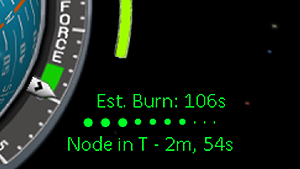
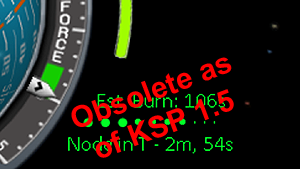
Release v1.7. Update for KSP 1.5 compatibility.

Changed region(s): [[0.24, 0.3254, 0.78, 0.7692], [0.3, 0.6213, 0.63, 0.9467], [0.63, 0.5325, 0.78, 0.7101]]

diff --git a/src/BetterBurnTime.cs b/src/BetterBurnTime.cs
@@ -76,21 +76,29 @@ namespace BetterBurnTime
                     dVrequired = ClosestApproachTracker.Velocity;
                     if (double.IsNaN(dVrequired))
                     {
-                        // No closest-approach info available either, do we have a maneuver node?
+                        // No closest-approach info is available either.  At this point, we've exhausted all
+                        // of our special-tracking-burn-information options (impact, closest approach), so
+                        // we won't show any burn information or countdown.  (Before KSP 1.5, we would have
+                        // checked for a maneuver node, and if present, we would have shown a countdown
+                        // and our revised burn time estimate.  KSP 1.5, however, introduced drastically improved
+                        // burn-time indication in stock, so there's no point in trying to compete with that--
+                        // it's good enough, so leave it alone.
+                        shouldDisplayCountdown = false;
+
+                        // Do we have a maneuver node?
                         dVrequired = BurnInfo.DvRemaining;
                         if (double.IsNaN(dVrequired))
                         {
-                            // No, there's no maneuver node.  Do we have atmosphere transition data?
+                            // No, there's no maneuver node.
+                            burnType = BetterBurnTimeData.BurnType.None;
+                            // If we've got an upcoming atmosphere transition, include that info.
                             customDescription = AtmosphereTracker.Description;
                             timeUntil = AtmosphereTracker.TimeUntil;
-                            shouldDisplayCountdown = false;
-                            burnType = BetterBurnTimeData.BurnType.None;
                         }
                         else
                         {
-                            // Yep, use the maneuver node.
+                            // Yep, there's a maneuver node.
                             timeUntil = SecondsUntilNode();
-                            shouldDisplayCountdown = true;
                             burnType = BetterBurnTimeData.BurnType.Maneuver;
                         }
                     }
@@ -135,7 +143,9 @@ namespace BetterBurnTime
                 // have a description (meaning it's one of our custom trackers from this mod)
                 // or we might not (meaning "leave it alone at let the stock game decide what to say").
 
-                if (double.IsNaN(dVrequired) || (FlightGlobals.ActiveVessel == null))
+                if ((burnType == BetterBurnTimeData.BurnType.Maneuver)
+                    || double.IsNaN(dVrequired)
+                    || (FlightGlobals.ActiveVessel == null))
                 {
                     BurnInfo.Countdown = string.Empty;
                     if (customDescription == null) BurnInfo.AlternateDisplayEnabled = false;
